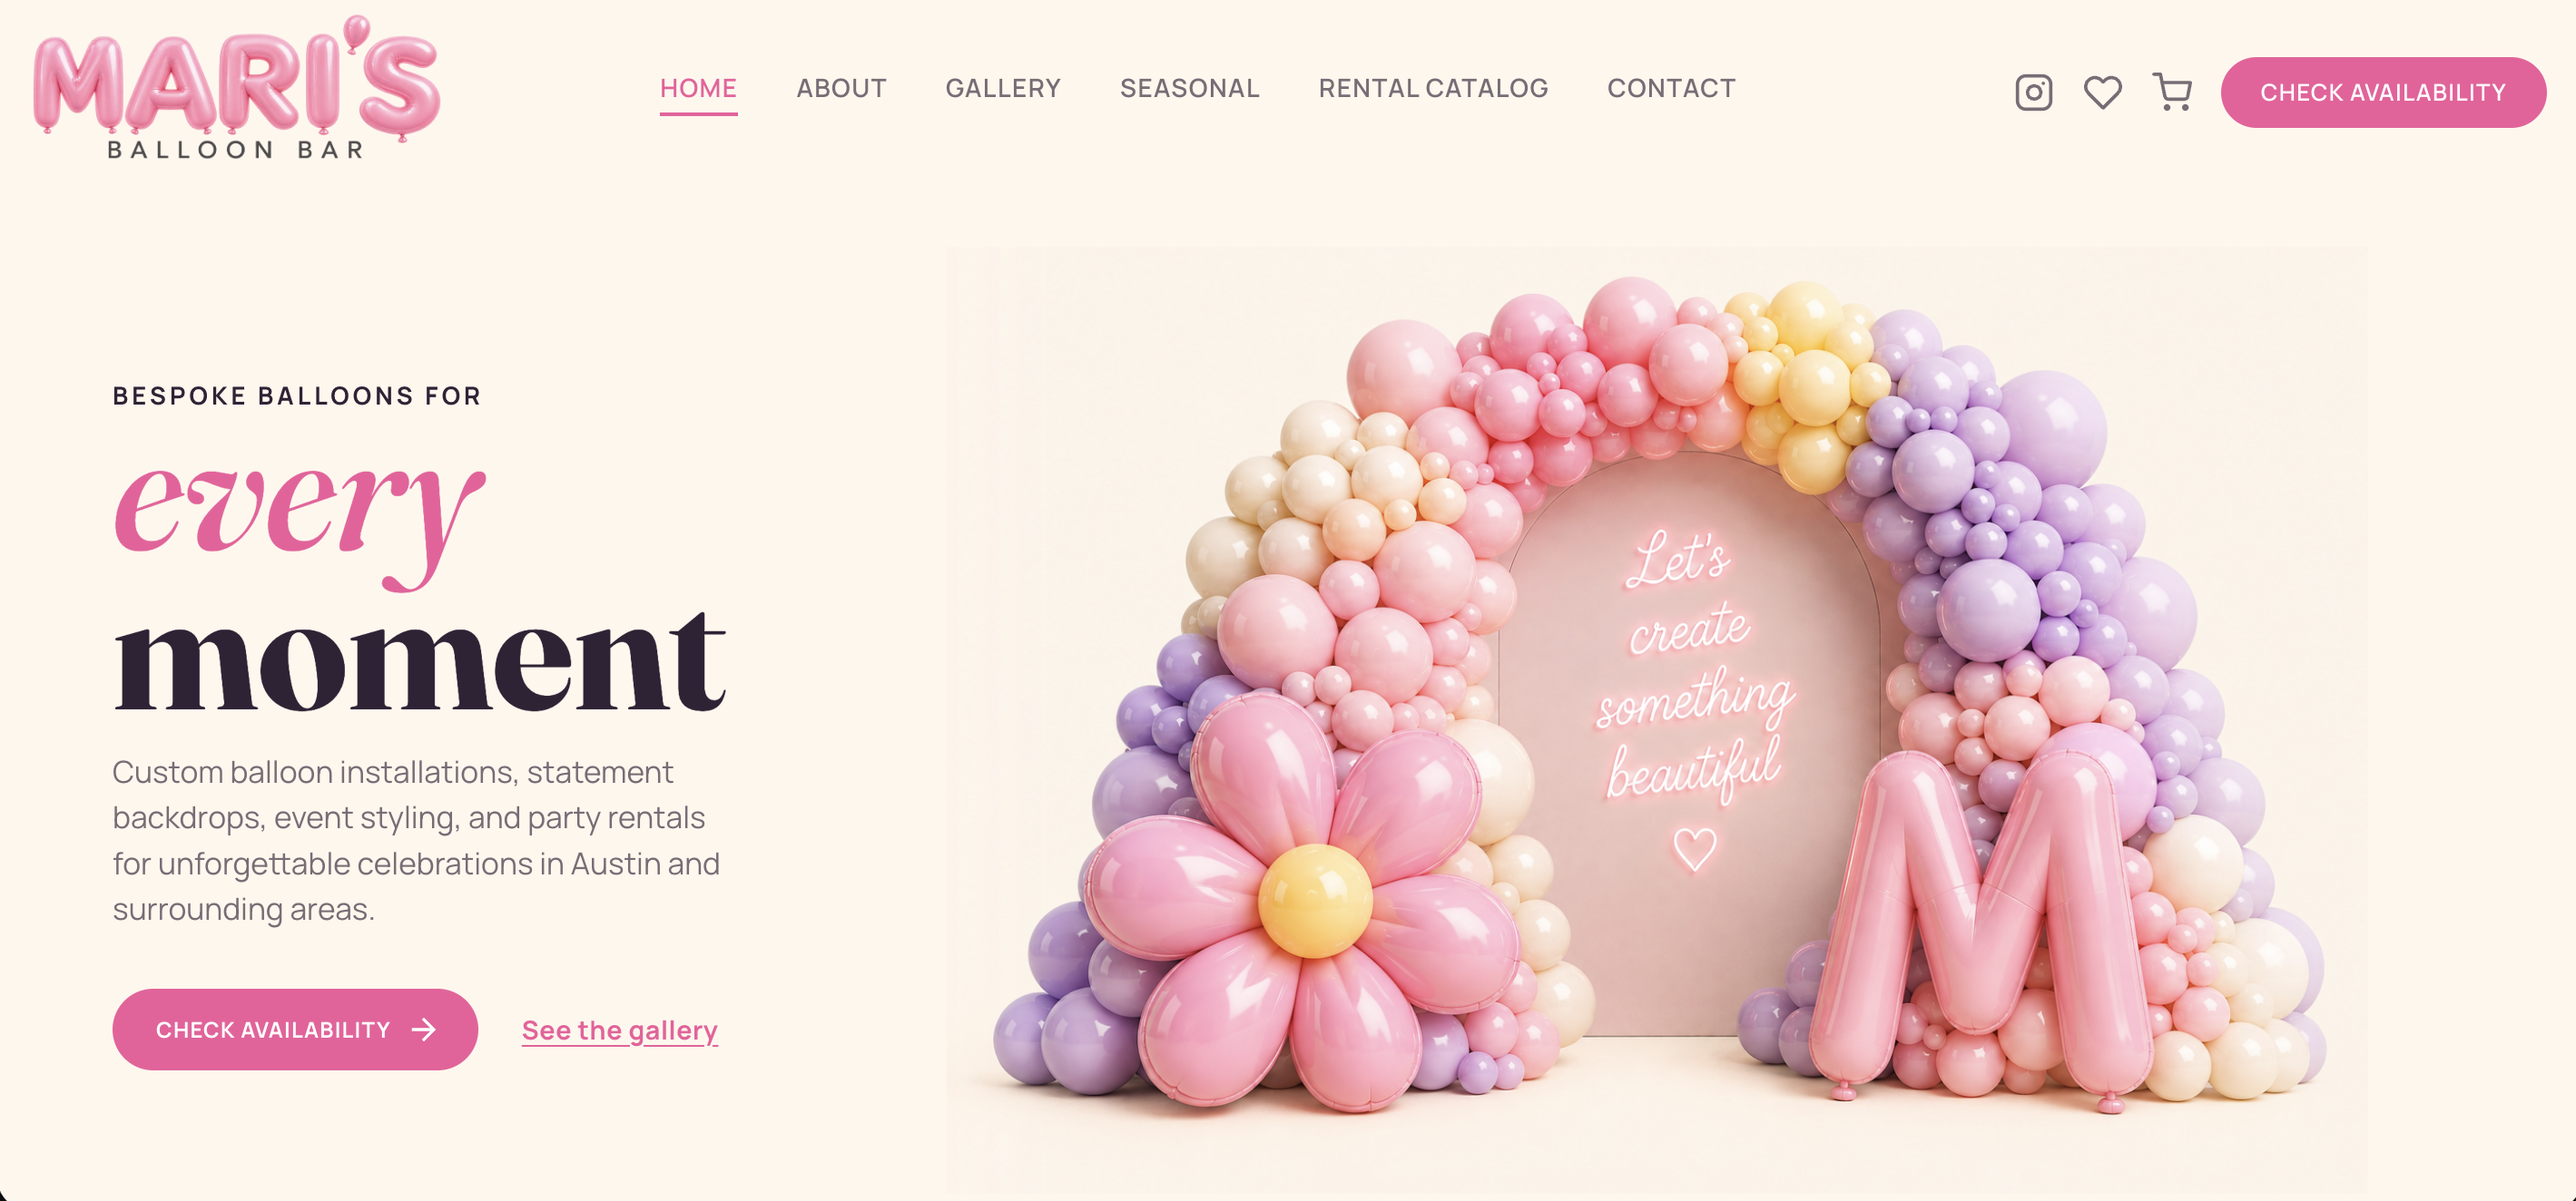
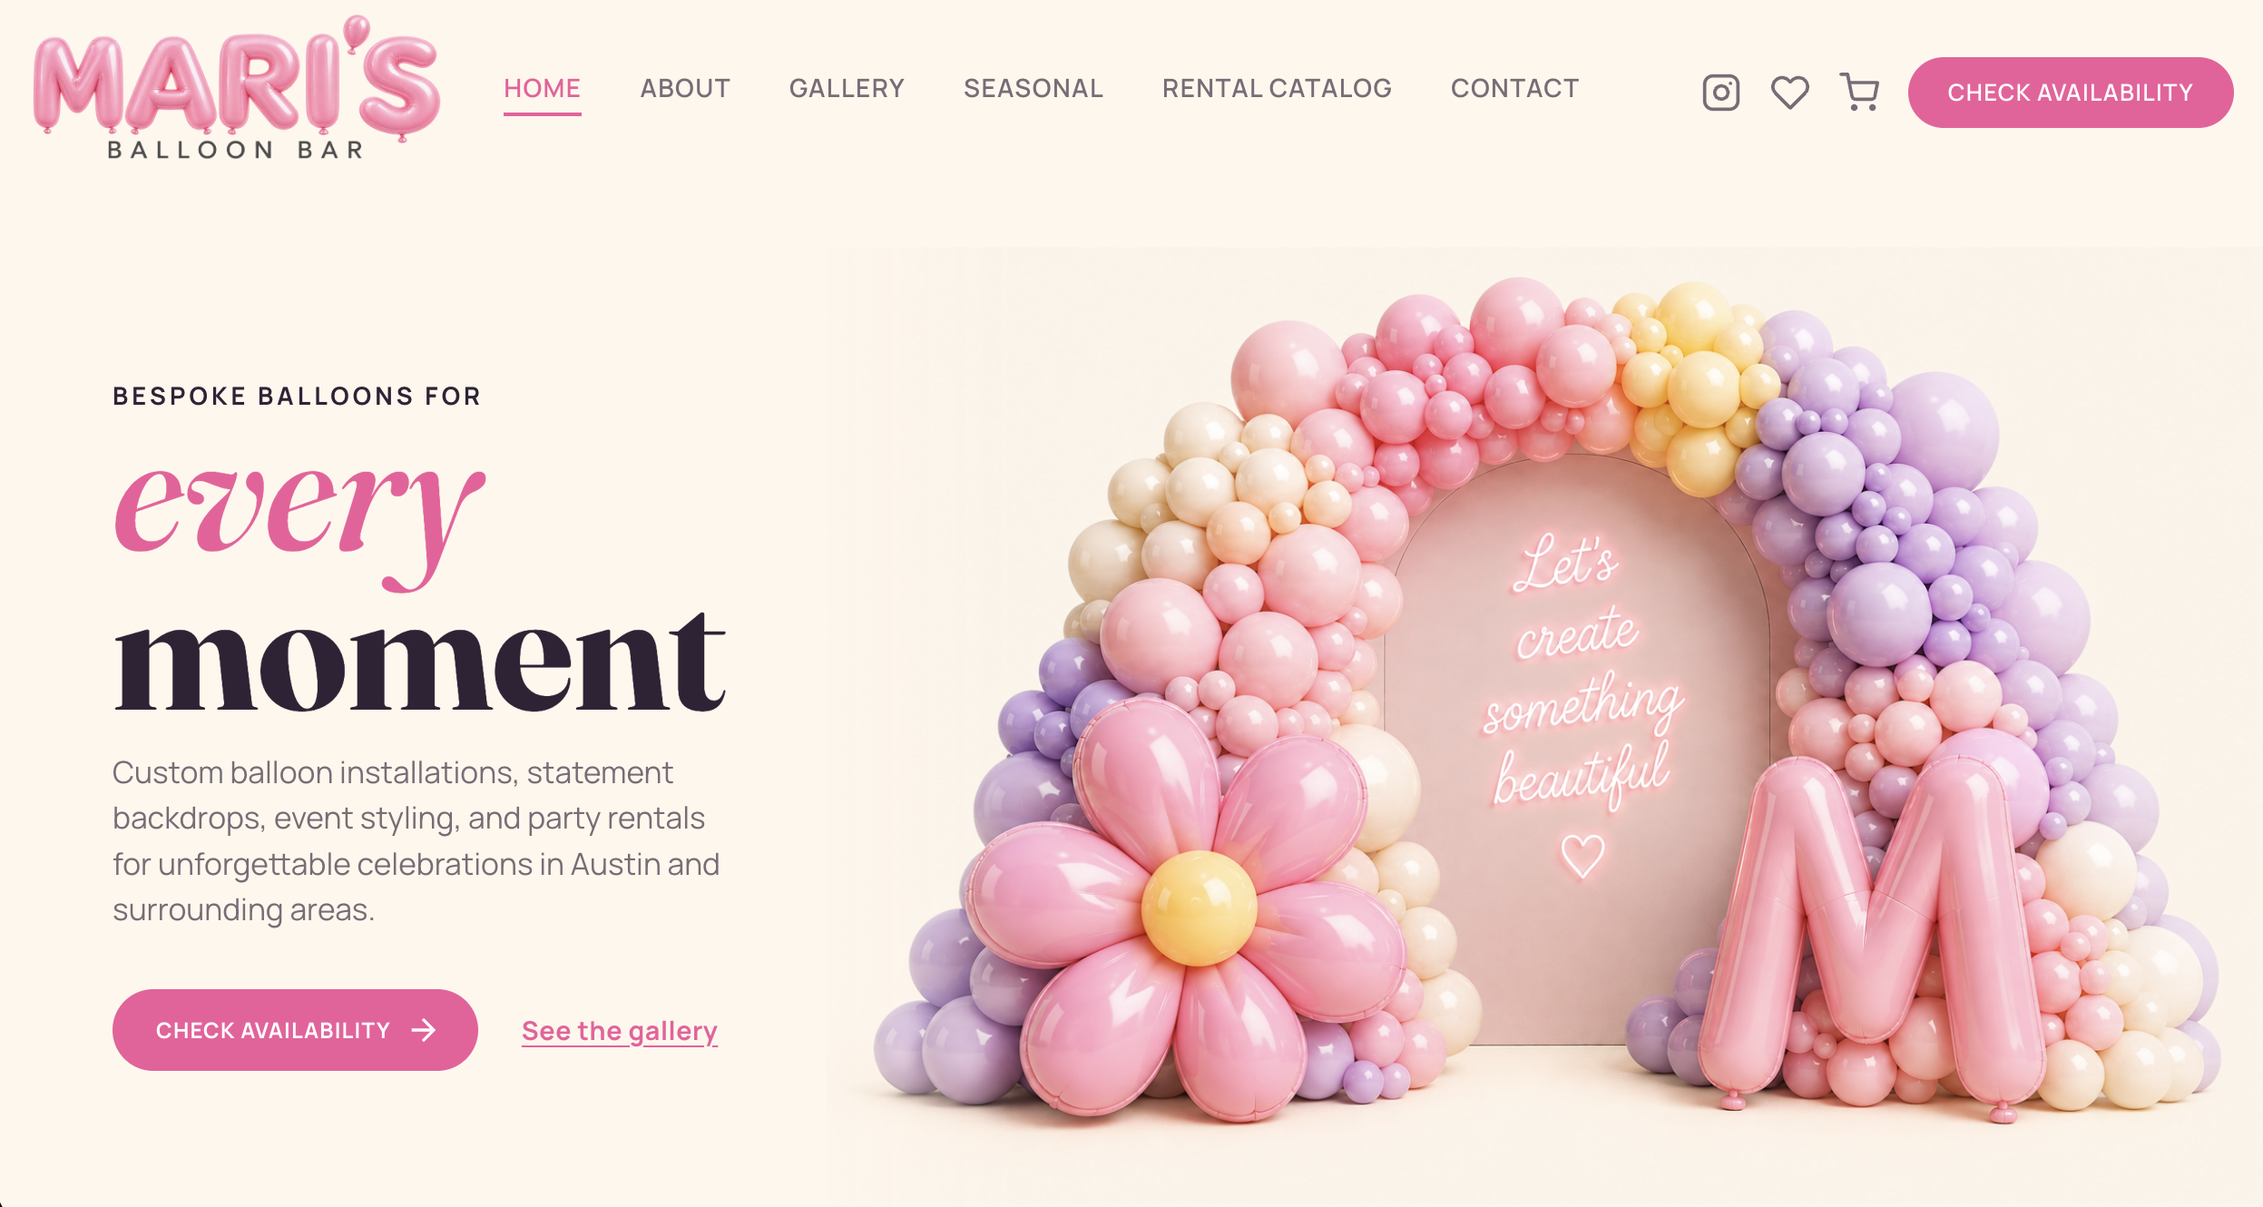
Add Experience from resume, grey background, new Mari's image and link, title update
- Experience section: Kinlo, Horn & Hooves (with The Dating Doc as selected client work), WGI
- Dark grey background instead of near-black
- Mari's Balloon Bar: new screenshot, aspect ratio fix, live link to marisballoonbar.com
- Role title is now Full-Stack Software Engineer

diff --git a/src/data/experience.js b/src/data/experience.js
@@ -1,12 +1,37 @@
-// Add roles here; the Experience section (and its nav link) appears
-// automatically once this list has at least one entry.
-//
-// {
-//   dates: "2023 — Present",
-//   title: "Full-Stack Developer",
-//   company: "Company name",
-//   url: "https://example.com",       // optional
-//   summary: "What you built and the impact it had.",
-//   tags: ["React", "Node"],
-// },
-export const experience = [];
+// The Experience section (and its nav link) appears when this list has entries.
+// Optional fields: `url` links the company name; `clients` lists client work
+// shown under the role.
+export const experience = [
+  {
+    dates: "2026 — Present",
+    title: "Co-Founder & Full-Stack Software Engineer",
+    company: "Kinlo",
+    summary:
+      "Building a mobile-first community and event platform end to end: event creation, ticket sales, memberships, attendee management and messaging. Integrated the Anthropic Claude API for AI-powered event discovery, content generation and host analytics, backed by a secure server-side architecture with usage limits, cost controls and prompt-injection safeguards.",
+    tags: ["React Native", "Expo", "Node.js", "Firebase", "Stripe", "Claude API"],
+  },
+  {
+    dates: "2022 — Present",
+    title: "Founder & Full-Stack Software Engineer",
+    company: "Horn & Hooves",
+    summary:
+      "Independent studio building responsive full-stack web applications for small-business clients. Own each project from requirements and technical design through deployment and post-launch support, including design systems, contact workflows and third-party integrations.",
+    clients: [
+      {
+        name: "The Dating Doc",
+        dates: "Dec 2023 — Oct 2025 · Contract",
+        summary:
+          "Led full-stack development and product design of a dating and events platform. Built multi-step onboarding, event registration with Stripe checkout and webhooks, and real-time messaging, and designed the UI, visual identity and design system.",
+      },
+    ],
+    tags: ["React", "Node.js", "GraphQL", "MongoDB", "Socket.IO", "Stripe", "REST APIs"],
+  },
+  {
+    dates: "2020 — 2023",
+    title: "3D Renderer / Visualization Artist",
+    company: "WGI",
+    summary:
+      "Created photorealistic renderings, animations and VR experiences for architectural projects, and set graphic production standards for the division that cut production time by 80%.",
+    tags: ["3D Visualization", "Animation", "VR"],
+  },
+];

diff --git a/src/index.css b/src/index.css
@@ -1,15 +1,15 @@
 /* ---------- tokens ---------- */
 :root {
   color-scheme: dark;
-  --bg: #0c0c10;
-  --surface: #14141b;
-  --line: #262633;
+  --bg: #1b1b20;
+  --surface: #24242a;
+  --line: #36363e;
   --text: #ecebe6;
   --muted: #9a99a8;
   --accent: #c6ff3d;
   --accent-2: #ff5c35;
   --on-accent: #0c0c10;
-  --glow: #171722;
+  --glow: #26262d;
   --particle: #5b5b73;
   --radius: 12px;
   --body: Inter, system-ui, -apple-system, "Segoe UI", sans-serif;
@@ -426,7 +426,7 @@ main {
 }
 .job {
   display: grid;
-  grid-template-columns: 120px 1fr;
+  grid-template-columns: 124px 1fr;
   gap: 8px 20px;
 }
 .job-dates {
@@ -441,16 +441,48 @@ main {
   font-weight: 600;
   line-height: 1.35;
 }
-.job h3 a {
+.job .company {
+  color: var(--accent);
   text-decoration: none;
 }
-.job h3 a:hover {
-  color: var(--accent);
+.job a.company:hover {
+  text-decoration: underline;
 }
 .job p:not(.job-dates) {
   color: var(--muted);
   font-size: 0.95rem;
   margin: 8px 0 12px;
+}
+
+.job p.clients-label {
+  font: 600 0.7rem var(--mono);
+  text-transform: uppercase;
+  letter-spacing: 0.14em;
+  color: var(--accent);
+  margin: 4px 0 10px;
+}
+.job-clients {
+  margin: 0 0 14px;
+  display: grid;
+  gap: 14px;
+}
+.job-clients li {
+  padding-left: 14px;
+  border-left: 2px solid var(--line);
+}
+.job .job-clients p {
+  margin: 0;
+  font-size: 0.92rem;
+}
+.job .job-clients .client-name {
+  color: var(--text);
+  font-weight: 600;
+  margin-bottom: 4px;
+}
+.job .job-clients .client-name span {
+  color: var(--muted);
+  font: 400 0.72rem var(--mono);
+  margin-left: 8px;
 }
 
 /* ---------- projects ---------- */

diff --git a/src/components/Experience.jsx b/src/components/Experience.jsx
@@ -13,14 +13,34 @@ export default function Experience() {
               <h3>
                 {job.title} ·{" "}
                 {job.url ? (
-                  <a href={job.url} target="_blank" rel="noopener noreferrer">
+                  <a
+                    className="company"
+                    href={job.url}
+                    target="_blank"
+                    rel="noopener noreferrer"
+                  >
                     {job.company}
                   </a>
                 ) : (
-                  job.company
+                  <span className="company">{job.company}</span>
                 )}
               </h3>
               <p>{job.summary}</p>
+              {job.clients?.length > 0 && (
+                <>
+                  <p className="clients-label">Selected client work</p>
+                  <ul className="job-clients">
+                  {job.clients.map((c) => (
+                    <li key={c.name}>
+                      <p className="client-name">
+                        {c.name} <span>{c.dates}</span>
+                      </p>
+                      <p>{c.summary}</p>
+                    </li>
+                  ))}
+                  </ul>
+                </>
+              )}
               {job.tags?.length > 0 && (
                 <ul className="tags">
                   {job.tags.map((t) => (

diff --git a/index.html b/index.html
@@ -6,14 +6,14 @@
     <link rel="icon" type="image/png" sizes="32x32" href="/favicon-32.png" />
     <link rel="apple-touch-icon" href="/apple-touch-icon.png" />
     <meta name="viewport" content="width=device-width, initial-scale=1.0" />
-    <meta name="theme-color" content="#0c0c10" />
-    <title>Elena Gurchinskaia — Full-Stack Developer</title>
+    <meta name="theme-color" content="#1b1b20" />
+    <title>Elena Gurchinskaia — Full-Stack Software Engineer</title>
     <meta
       name="description"
       content="Elena Gurchinskaia is a full-stack developer with a design background, building user-centered web apps with React, Node and Express."
     />
     <meta property="og:type" content="website" />
-    <meta property="og:title" content="Elena Gurchinskaia — Full-Stack Developer" />
+    <meta property="og:title" content="Elena Gurchinskaia — Full-Stack Software Engineer" />
     <meta
       property="og:description"
       content="Full-stack developer with a design background. Selected projects, skills and contact."

diff --git a/src/data/projects.js b/src/data/projects.js
@@ -15,9 +15,9 @@ export const projects = [
     name: "Mari's Balloon Bar",
     summary: "A small-business site built with React and Vite.",
     image: balloonBar,
-    aspect: "2838 / 1324",
+    aspect: "2494 / 1330",
     tags: ["React", "Vite"],
-    live: "https://maris-ballon-bar.netlify.app/",
+    live: "https://marisballoonbar.com/",
     code: "https://github.com/elenagurchinskaia/maris-ballon-bar",
   },
 ];

diff --git a/src/data/profile.js b/src/data/profile.js
@@ -1,6 +1,6 @@
 export const profile = {
   name: "Elena Gurchinskaia",
-  role: "Full-Stack Developer",
+  role: "Full-Stack Software Engineer",
   headline: "I build and design full-stack apps people love to use.",
   intro:
     "Full-stack developer with a strong foundation in design. I blend creative aesthetics with technical function to ship user-centered products with React, Node and Express.",

diff --git a/src/components/Projects.jsx b/src/components/Projects.jsx
@@ -13,6 +13,7 @@ function ProjectCard({ project }) {
         rel="noopener noreferrer"
         tabIndex={-1}
         aria-hidden="true"
+        style={project.aspect ? { aspectRatio: project.aspect } : undefined}
       >
         <DistortImage src={project.image} />
       </a>
